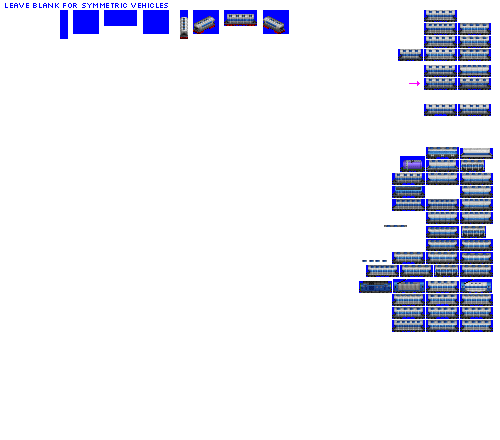
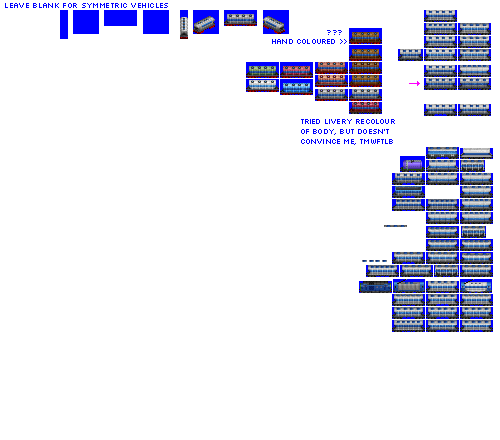
Change: (WIP) try cargo specific liveries for covered hoppers, will probably remove

Changed region(s): [[0.48, 0.0591, 0.78, 0.325]]

diff --git a/src/gestalt_graphics/graphics_constants.py b/src/gestalt_graphics/graphics_constants.py
@@ -15,15 +15,27 @@ spritesheet_width = 425
 # label order matters, so tuples are used not dicts
 # could probably have used orderedict or named tuple, but...blah
 
-# DYES
-# PLAS
+# !! unfinished - copy of tanker remaps, needs remapping to covered hopper cargos
+# intended to be sparse, there aren't enough colours to give a guide to the cargos
+# so this is just a visual tweak to give some variety when covered hoppers are widely used in a game
+# this just recolours the hatches, so only 2 pruple colours are used
+covered_hopper_livery_remap_white = {141: 13, 142: 14}
+covered_hopper_livery_remap_bluish_grey = {141: 19, 142: 20}
+covered_hopper_livery_recolour_maps = (("DFLT", {141: CC1+5, 142: CC1+6}),
+                                       ("SAND", {141: 36, 142: 37}),
+                                       ("BDMT", covered_hopper_livery_remap_bluish_grey),
+                                       ("CMNT", covered_hopper_livery_remap_bluish_grey),
+                                       ("SALT", covered_hopper_livery_remap_white),
+                                       ("QLME", covered_hopper_livery_remap_white),
+                                       ("SASH", covered_hopper_livery_remap_white),
+                                       ("RUBR", {141: 42, 142: 43}),)
+
 # !! unfinished - copy of tanker remaps, needs remapping to silo cargos
-# !! may also be used for covered hoppers?
 silo_livery_recolour_maps = (("QLME", {136: 1, 137: 2, 138: 3, 139: 4,
                                          140: 5, 141: 6, 142: 7, 143: 8}),  # see note on oil above
                                # see note on DFLT above
-                               ("DFLT", {136: CC1, 137: CC1+1, 138: CC1+2, 139: CC1+3,
-                                         140: CC1+4, 141: CC1+5, 142: CC1+6, 143: CC1+7}),
+                               ("DFLT", {136: 16, 137: 17, 138: 18, 139: 19,
+                                         140: 20, 141: 21, 142: 22, 143: 23}),
                                ("SAND", {136: 62, 137: 63, 138: 64, 139: 65,
                                          140: 66, 141: 67, 142: 68, 143: 69}),
                                ("CHLO", {136: 154, 137: 155, 138: 156, 139: 157,

diff --git a/src/train.py b/src/train.py
@@ -663,7 +663,7 @@ class CoveredHopperCarConsist(CarConsist):
         # Graphics configuration
         # !! re-use silo remap?
         self.gestalt_graphics = GestaltGraphicsCargoSpecificLivery(
-            recolour_maps=graphics_constants.silo_livery_recolour_maps)
+            recolour_maps=graphics_constants.covered_hopper_livery_recolour_maps)
 
 
 class DumpCarConsist(CarConsist):
